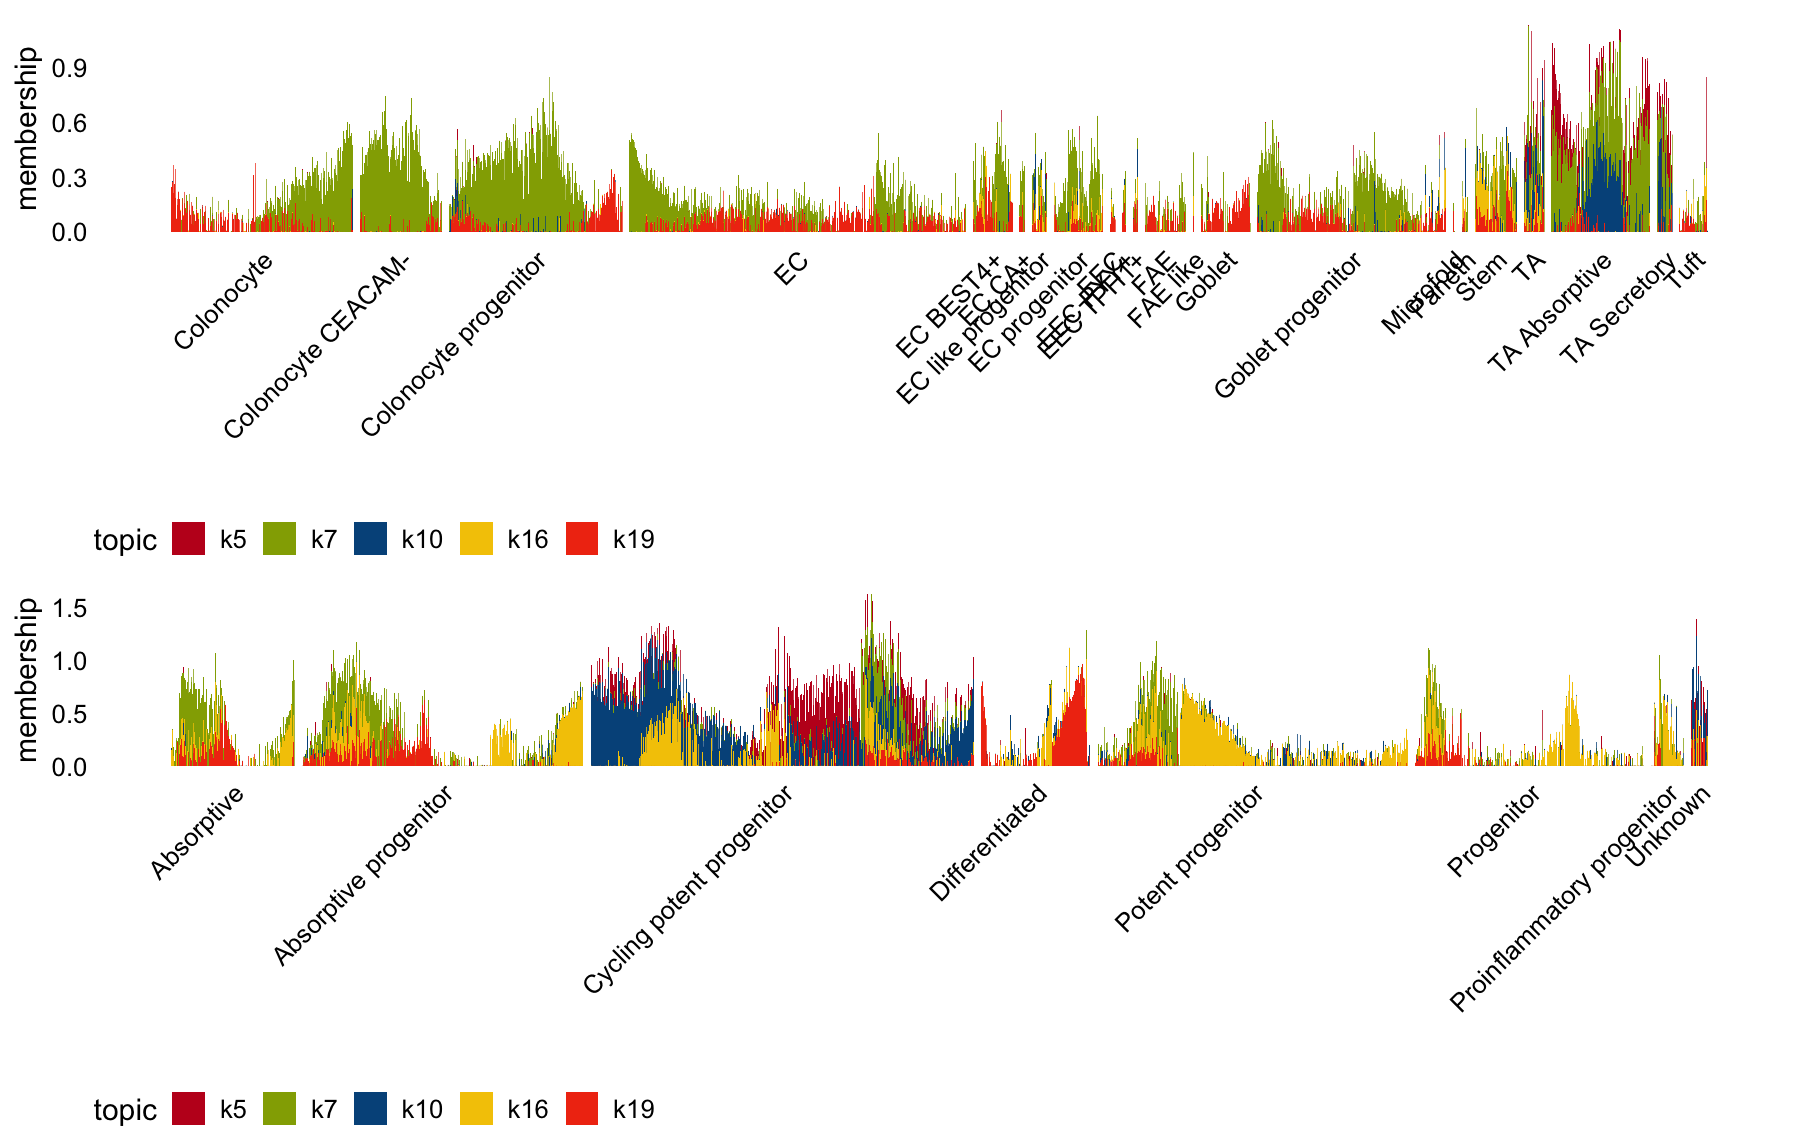
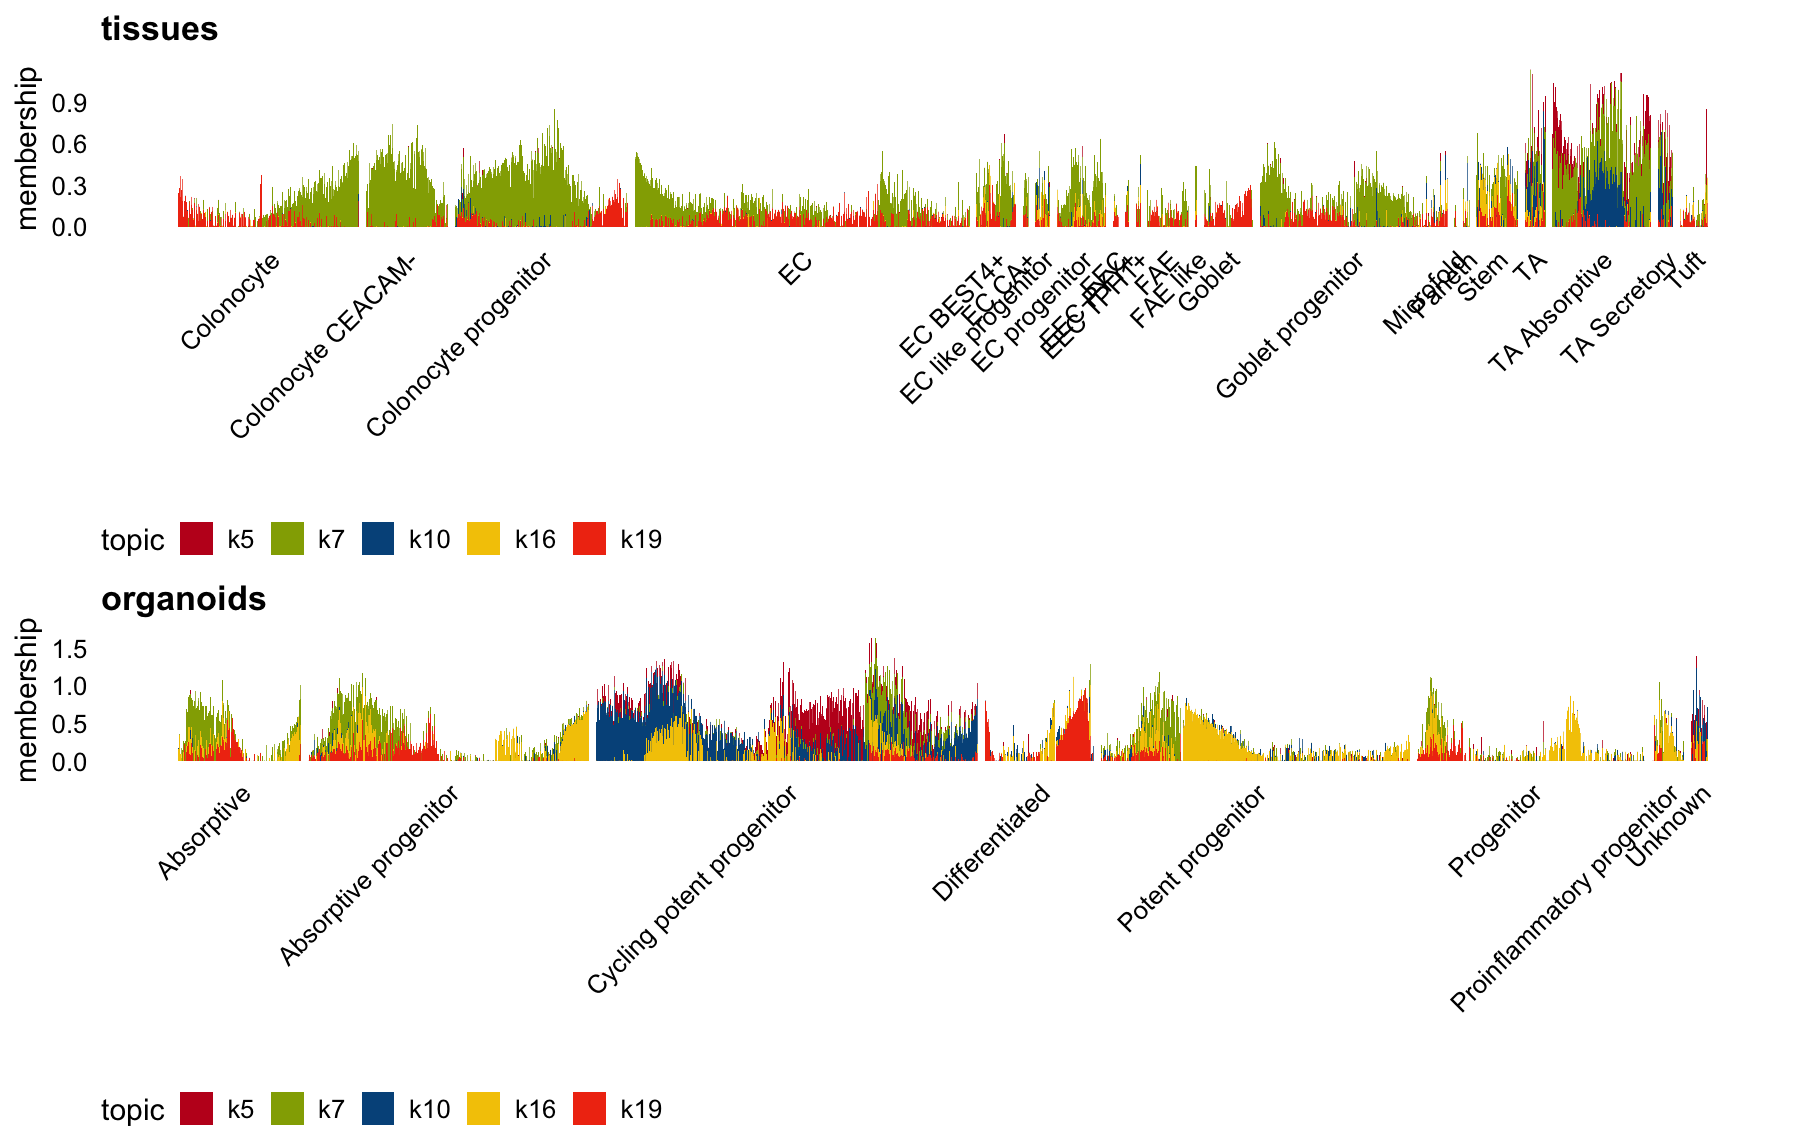
Added some more structure plots to the gca analysis.

diff --git a/docs/gca.html b/docs/gca.html
@@ -301,7 +301,7 @@ class="glyphicon glyphicon-ok text-success" aria-hidden="true"></span>
 <div class="tab-content">
 <div id="summary" class="tab-pane fade in active">
 <p>
-<strong>Last updated:</strong> 2026-03-17
+<strong>Last updated:</strong> 2026-04-13
 </p>
 <p>
 <strong>Checks:</strong> <span
@@ -433,15 +433,15 @@ project makes it easier to run your code on other machines.</p>
 <div class="panel panel-default">
 <div class="panel-heading">
 <p class="panel-title">
-<a data-toggle="collapse" data-parent="#workflowr-checks" href="#strongRepositoryversionstrongahrefhttpsgithubcomstephenslabsinglecelljamboreetree7e5b3fdee9f4fb8fe0352d0cd54759aba52bf5catargetblank7e5b3fda">
+<a data-toggle="collapse" data-parent="#workflowr-checks" href="#strongRepositoryversionstrongahrefhttpsgithubcomstephenslabsinglecelljamboreetree20607dfc69dfcb8751e1a8bc2229c7ffc11041a2targetblank20607dfa">
 <span class="glyphicon glyphicon-ok text-success"
 aria-hidden="true"></span> <strong>Repository version:</strong>
-<a href="https://github.com/stephenslab/single-cell-jamboree/tree/7e5b3fdee9f4fb8fe0352d0cd54759aba52bf5ca" target="_blank">7e5b3fd</a>
+<a href="https://github.com/stephenslab/single-cell-jamboree/tree/20607dfc69dfcb8751e1a8bc2229c7ffc11041a2" target="_blank">20607df</a>
 </a>
 </p>
 </div>
 <div
[2 lines of base64/hex data omitted]
 class="panel-collapse collapse">
 <div class="panel-body">
 <p>
@@ -451,7 +451,7 @@ reproducibility.
 </p>
 <p>
 The results in this page were generated with repository version
-<a href="https://github.com/stephenslab/single-cell-jamboree/tree/7e5b3fdee9f4fb8fe0352d0cd54759aba52bf5ca" target="_blank">7e5b3fd</a>.
+<a href="https://github.com/stephenslab/single-cell-jamboree/tree/20607dfc69dfcb8751e1a8bc2229c7ffc11041a2" target="_blank">20607df</a>.
 See the <em>Past versions</em> tab to see a history of the changes made
 to the R Markdown and HTML files.
 </p>
@@ -483,6 +483,7 @@ Untracked files:
 
 Unstaged changes:
     Modified:   analysis/gca.R
+    Modified:   analysis/lps.Rmd
 
 </code></pre>
 <p>
@@ -526,6 +527,40 @@ Message
 </tr>
 </thead>
 <tbody>
+<tr>
+<td>
+Rmd
+</td>
+<td>
+<a href="https://github.com/stephenslab/single-cell-jamboree/blob/20607dfc69dfcb8751e1a8bc2229c7ffc11041a2/analysis/gca.Rmd" target="_blank">20607df</a>
+</td>
+<td>
+Peter Carbonetto
+</td>
+<td>
+2026-04-13
+</td>
+<td>
+wflow_publish("gca.Rmd", verbose = T, view = F)
+</td>
+</tr>
+<tr>
+<td>
+html
+</td>
+<td>
+<a href="https://rawcdn.githack.com/stephenslab/single-cell-jamboree/cf4bf67fed6d28c728bdd96f20111a619d1545c4/docs/gca.html" target="_blank">cf4bf67</a>
+</td>
+<td>
+Peter Carbonetto
+</td>
+<td>
+2026-03-17
+</td>
+<td>
+Improved the coloring of the structure plots in the gca analysis.
+</td>
+</tr>
 <tr>
 <td>
 Rmd
@@ -741,11 +776,11 @@ rows2 &lt;- which(sample_info$origin == &quot;Org&quot;)
 p1 &lt;- structure_plot(L[rows1,],gap = 10,topics = topics_tissue,
                      grouping = factor(sample_info[rows1,&quot;celltype&quot;]),
                      colors = topic_colors) +
-  labs(y = &quot;membership&quot;)
+  labs(y = &quot;membership&quot;,title = &quot;tissues&quot;)
 p2 &lt;- structure_plot(L[rows2,],gap = 10,topics = topics_tissue,
                      grouping = factor(sample_info[rows2,&quot;celltype&quot;]),
                      colors = topic_colors) +
-  labs(y = &quot;membership&quot;) +
+  labs(y = &quot;membership&quot;,title = &quot;organoids&quot;) +
   ylim(0,1)
 plot_grid(p1,p2,nrow = 2,ncol = 1)</code></pre>
 <p><img src="figure/gca.Rmd/structure-plots-tissues-1.png" width="900" style="display: block; margin: auto;" /></p>
@@ -771,6 +806,17 @@ Date
 </tr>
 </thead>
 <tbody>
+<tr>
+<td>
+<a href="https://github.com/stephenslab/single-cell-jamboree/blob/cf4bf67fed6d28c728bdd96f20111a619d1545c4/docs/figure/gca.Rmd/structure-plots-tissues-1.png" target="_blank">cf4bf67</a>
+</td>
+<td>
+Peter Carbonetto
+</td>
+<td>
+2026-03-17
+</td>
+</tr>
 <tr>
 <td>
 <a href="https://github.com/stephenslab/single-cell-jamboree/blob/028400323f096a888734e55a902a4e095455574d/docs/figure/gca.Rmd/structure-plots-tissues-1.png" target="_blank">0284003</a>
@@ -809,12 +855,12 @@ rows2 &lt;- which(sample_info$origin == &quot;Org&quot;)
 p3 &lt;- structure_plot(L[rows1,],gap = 10,topics = topics_organoid,
                      grouping = factor(sample_info[rows1,&quot;celltype&quot;]),
                      colors = topic_colors) +
-  labs(y = &quot;membership&quot;) +
+  labs(y = &quot;membership&quot;,title = &quot;tissues&quot;) +
   ylim(0,2)
 p4 &lt;- structure_plot(L[rows2,],gap = 10,topics = topics_organoid,
                      grouping = factor(sample_info[rows2,&quot;celltype&quot;]),
                      colors = topic_colors) +
-  labs(y = &quot;membership&quot;)
+  labs(y = &quot;membership&quot;,title = &quot;organoids&quot;)
 plot_grid(p3,p4,nrow = 2,ncol = 1)</code></pre>
 <p><img src="figure/gca.Rmd/structure-plots-organoids-1.png" width="900" style="display: block; margin: auto;" /></p>
 <p>
@@ -866,18 +912,18 @@ Peter Carbonetto
 </div>
 </div>
 <p>Finally, these are the gene programs that appear in both the tissues
-and the organoids. Some of the</p>
+and the organoids.</p>
 <pre class="r"><code>topics_shared &lt;- c(&quot;k5&quot;,&quot;k7&quot;,&quot;k10&quot;,&quot;k16&quot;,&quot;k19&quot;)
 rows1 &lt;- which(sample_info$origin == &quot;Tissue&quot;)
 rows2 &lt;- which(sample_info$origin == &quot;Org&quot;)
 p5 &lt;- structure_plot(L[rows1,],gap = 10,topics = topics_shared,
                      grouping = factor(sample_info[rows1,&quot;celltype&quot;]),
                      colors = topic_colors) +
-  labs(y = &quot;membership&quot;)
+  labs(y = &quot;membership&quot;,title = &quot;tissues&quot;)
 p6 &lt;- structure_plot(L[rows2,],gap = 10,topics = topics_shared,
                      grouping = factor(sample_info[rows2,&quot;celltype&quot;]),
                      colors = topic_colors) +
-  labs(y = &quot;membership&quot;)
+  labs(y = &quot;membership&quot;,title = &quot;organoids&quot;)
 plot_grid(p5,p6,nrow = 2,ncol = 1)</code></pre>
 <p><img src="figure/gca.Rmd/structure-plots-shared-1.png" width="900" style="display: block; margin: auto;" /></p>
 <p>
@@ -928,6 +974,35 @@ Peter Carbonetto
 </table>
 </div>
 </div>
+<p>In organoids, factor 16 is most active in the TI, in non-CD-adj
+groups:</p>
+<pre class="r"><code>rows1 &lt;- with(sample_info,
+              which(region == &quot;TI&quot; &amp; group != &quot;CD adj&quot; &amp; origin == &quot;Org&quot;))
+rows2 &lt;- with(sample_info,
+              which(!(region == &quot;TI&quot; &amp; group != &quot;CD adj&quot;) &amp; origin == &quot;Org&quot;))
+p7 &lt;- structure_plot(L[rows1,],gap = 10,topics = topics_shared,
+                     grouping = factor(sample_info[rows1,&quot;celltype&quot;]),
+                     colors = topic_colors) +
+  labs(y = &quot;membership&quot;,title = &quot;TI, non-CD-adj&quot;)
+p8 &lt;- structure_plot(L[rows2,],gap = 10,topics = topics_shared,
+                     grouping = factor(sample_info[rows2,&quot;celltype&quot;]),
+                     colors = topic_colors) +
+  labs(y = &quot;membership&quot;,title = &quot;all other cells&quot;)
+plot_grid(p7,p8,nrow = 2,ncol = 1)</code></pre>
+<p><img src="figure/gca.Rmd/structure-plots-shared-more-1.png" width="900" style="display: block; margin: auto;" /></p>
+<p>In organoids, factor 7 is most active in the non-CD-adj cells:</p>
+<pre class="r"><code>rows1 &lt;- with(sample_info,which(group != &quot;CD adj&quot; &amp; origin == &quot;Org&quot;))
+rows2 &lt;- with(sample_info,which(group == &quot;CD adj&quot; &amp; origin == &quot;Org&quot;))
+p9 &lt;- structure_plot(L[rows1,],gap = 10,topics = topics_shared,
+                     grouping = factor(sample_info[rows1,&quot;celltype&quot;]),
+                     colors = topic_colors) +
+  labs(y = &quot;membership&quot;,title = &quot;organoids (non-CD-adj)&quot;)
+p10 &lt;- structure_plot(L[rows2,],gap = 10,topics = topics_shared,
+                      grouping = factor(sample_info[rows2,&quot;celltype&quot;]),
+                      colors = topic_colors) +
+  labs(y = &quot;membership&quot;,title = &quot;organoids (CD-adj)&quot;)
+plot_grid(p9,p10,nrow = 2,ncol = 1)</code></pre>
+<p><img src="figure/gca.Rmd/structure-plots-shared-yet-more-1.png" width="900" style="display: block; margin: auto;" /></p>
 <br>
 <p>
 <button type="button" class="btn btn-default btn-workflowr btn-workflowr-sessioninfo" data-toggle="collapse" data-target="#workflowr-sessioninfo" style="display: block;">
@@ -942,7 +1017,7 @@ Session information
 # Running under: macOS 15.7.4
 # 
 # Matrix products: default
-# BLAS:   /Library/Frameworks/R.framework/Versions/4.3-arm64/Resources/lib/libRblas.0.dylib 
+# BLAS:   /System/Library/Frameworks/Accelerate.framework/Versions/A/Frameworks/vecLib.framework/Versions/A/libBLAS.dylib 
 # LAPACK: /Library/Frameworks/R.framework/Versions/4.3-arm64/Resources/lib/libRlapack.dylib;  LAPACK version 3.11.0
 # 
 # locale:
@@ -955,7 +1030,7 @@ Session information
 # [1] stats     graphics  grDevices utils     datasets  methods   base     
 # 
 # other attached packages:
-# [1] fastTopics_0.7-38 cowplot_1.1.3     ggplot2_4.0.1    
+# [1] fastTopics_0.7-38 cowplot_1.1.3     ggplot2_3.5.2    
 # 
 # loaded via a namespace (and not attached):
 #  [1] gtable_0.3.6        xfun_0.52           bslib_0.9.0        
@@ -963,28 +1038,27 @@ Session information
 #  [7] quadprog_1.5-8      vctrs_0.6.5         tools_4.3.3        
 # [10] generics_0.1.4      parallel_4.3.3      tibble_3.3.0       
 # [13] pkgconfig_2.0.3     Matrix_1.6-5        data.table_1.17.6  
-# [16] SQUAREM_2021.1      RColorBrewer_1.1-3  S7_0.2.0           
-# [19] RcppParallel_5.1.10 lifecycle_1.0.4     truncnorm_1.0-9    
-# [22] compiler_4.3.3      farver_2.1.2        stringr_1.5.1      
-# [25] git2r_0.33.0        progress_1.2.3      RhpcBLASctl_0.23-42
-# [28] httpuv_1.6.14       htmltools_0.5.8.1   sass_0.4.10        
-# [31] yaml_2.3.10         lazyeval_0.2.2      plotly_4.11.0      
-# [34] crayon_1.5.3        later_1.4.2         pillar_1.11.0      
-# [37] jquerylib_0.1.4     whisker_0.4.1       tidyr_1.3.1        
-# [40] uwot_0.2.3          cachem_1.1.0        gtools_3.9.5       
-# [43] tidyselect_1.2.1    digest_0.6.37       Rtsne_0.17         
-# [46] stringi_1.8.7       reshape2_1.4.4      dplyr_1.1.4        
-# [49] purrr_1.0.4         ashr_2.2-66         labeling_0.4.3     
-# [52] rprojroot_2.0.4     fastmap_1.2.0       grid_4.3.3         
-# [55] cli_3.6.5           invgamma_1.2        magrittr_2.0.3     
-# [58] dichromat_2.0-0.1   withr_3.0.2         prettyunits_1.2.0  
-# [61] scales_1.4.0        promises_1.3.3      rmarkdown_2.29     
-# [64] httr_1.4.7          workflowr_1.7.1     hms_1.1.3          
-# [67] pbapply_1.7-2       evaluate_1.0.4      knitr_1.50         
-# [70] irlba_2.3.5.1       viridisLite_0.4.2   rlang_1.1.6        
-# [73] Rcpp_1.1.0          mixsqp_0.3-54       glue_1.8.0         
-# [76] jsonlite_2.0.0      plyr_1.8.9          R6_2.6.1           
-# [79] fs_1.6.6</code></pre>
+# [16] SQUAREM_2021.1      RColorBrewer_1.1-3  RcppParallel_5.1.10
+# [19] lifecycle_1.0.4     truncnorm_1.0-9     compiler_4.3.3     
+# [22] farver_2.1.2        stringr_1.5.1       git2r_0.33.0       
+# [25] progress_1.2.3      RhpcBLASctl_0.23-42 httpuv_1.6.14      
+# [28] htmltools_0.5.8.1   sass_0.4.10         yaml_2.3.10        
+# [31] lazyeval_0.2.2      plotly_4.11.0       later_1.4.2        
+# [34] pillar_1.11.0       crayon_1.5.3        jquerylib_0.1.4    
+# [37] whisker_0.4.1       tidyr_1.3.1         uwot_0.2.3         
+# [40] cachem_1.1.0        gtools_3.9.5        tidyselect_1.2.1   
+# [43] digest_0.6.37       Rtsne_0.17          stringi_1.8.7      
+# [46] reshape2_1.4.4      dplyr_1.1.4         purrr_1.0.4        
+# [49] ashr_2.2-66         labeling_0.4.3      rprojroot_2.0.4    
+# [52] fastmap_1.2.0       grid_4.3.3          cli_3.6.5          
+# [55] invgamma_1.2        magrittr_2.0.3      dichromat_2.0-0.1  
+# [58] withr_3.0.2         prettyunits_1.2.0   scales_1.4.0       
+# [61] promises_1.3.3      rmarkdown_2.29      httr_1.4.7         
+# [64] workflowr_1.7.1     hms_1.1.3           pbapply_1.7-2      
+# [67] evaluate_1.0.4      knitr_1.50          irlba_2.3.5.1      
+# [70] viridisLite_0.4.2   rlang_1.1.6         Rcpp_1.1.0         
+# [73] mixsqp_0.3-54       glue_1.8.0          jsonlite_2.0.0     
+# [76] plyr_1.8.9          R6_2.6.1            fs_1.6.6</code></pre>
 </div>
 </div>
 </div>
